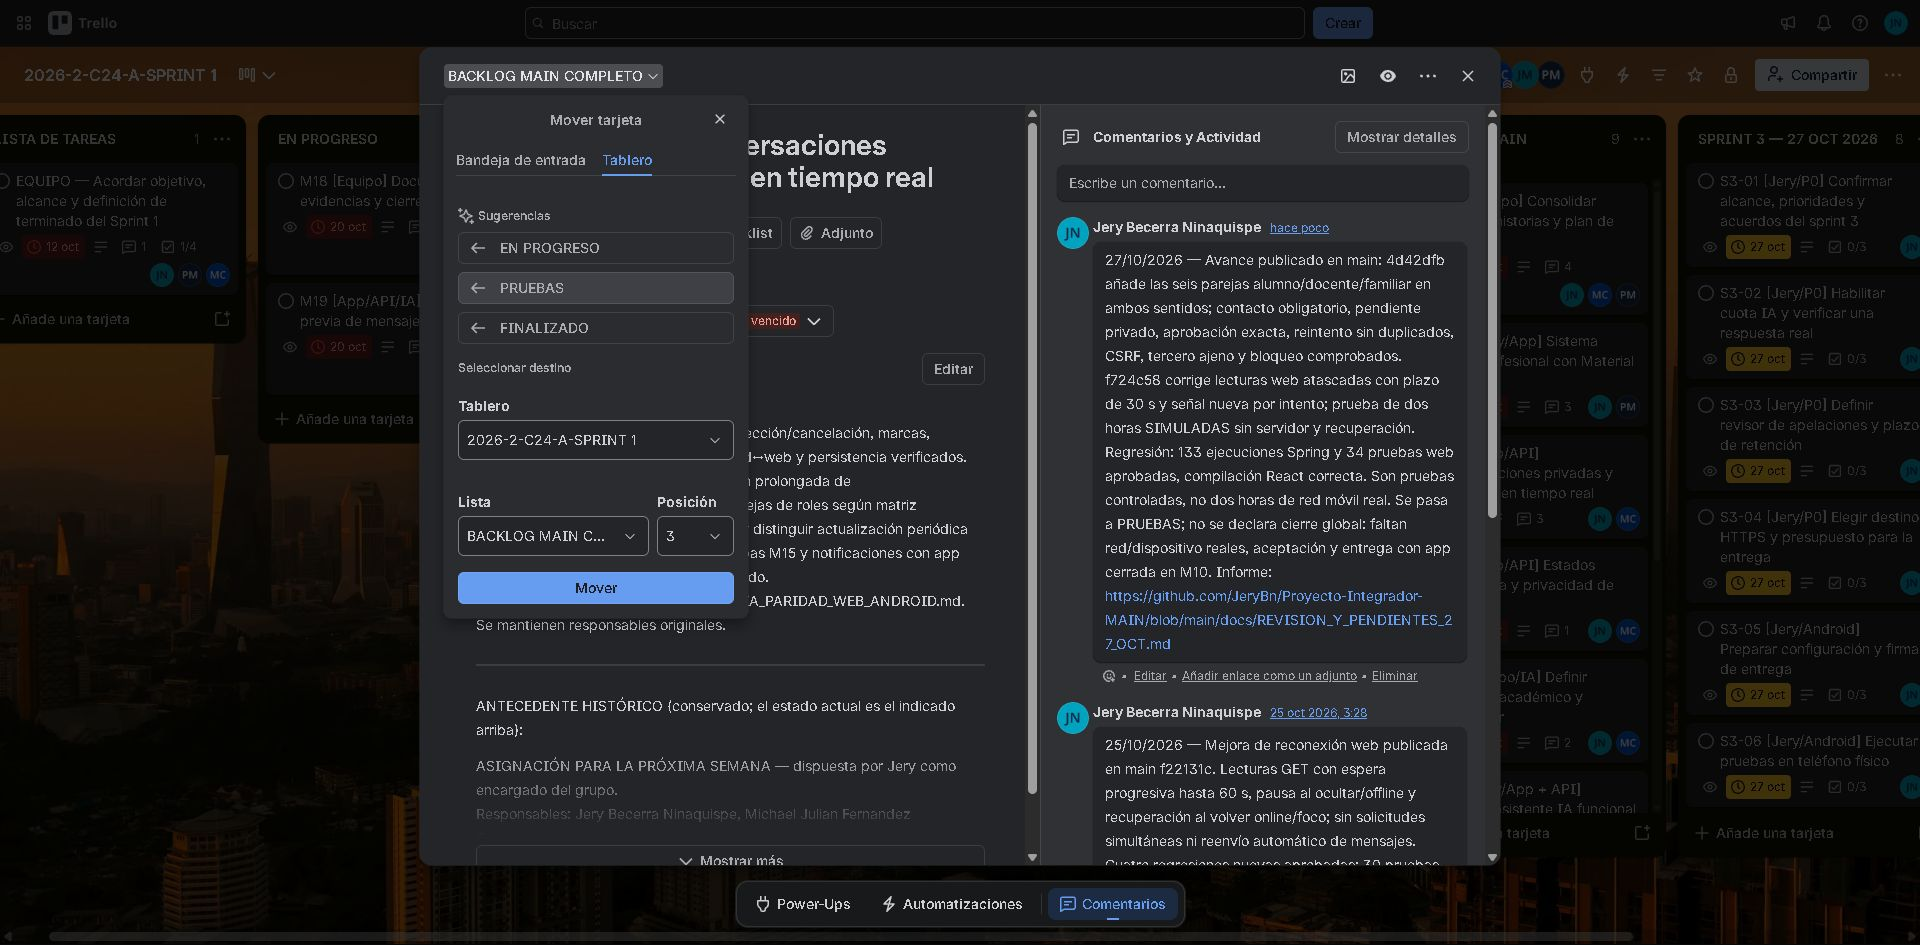
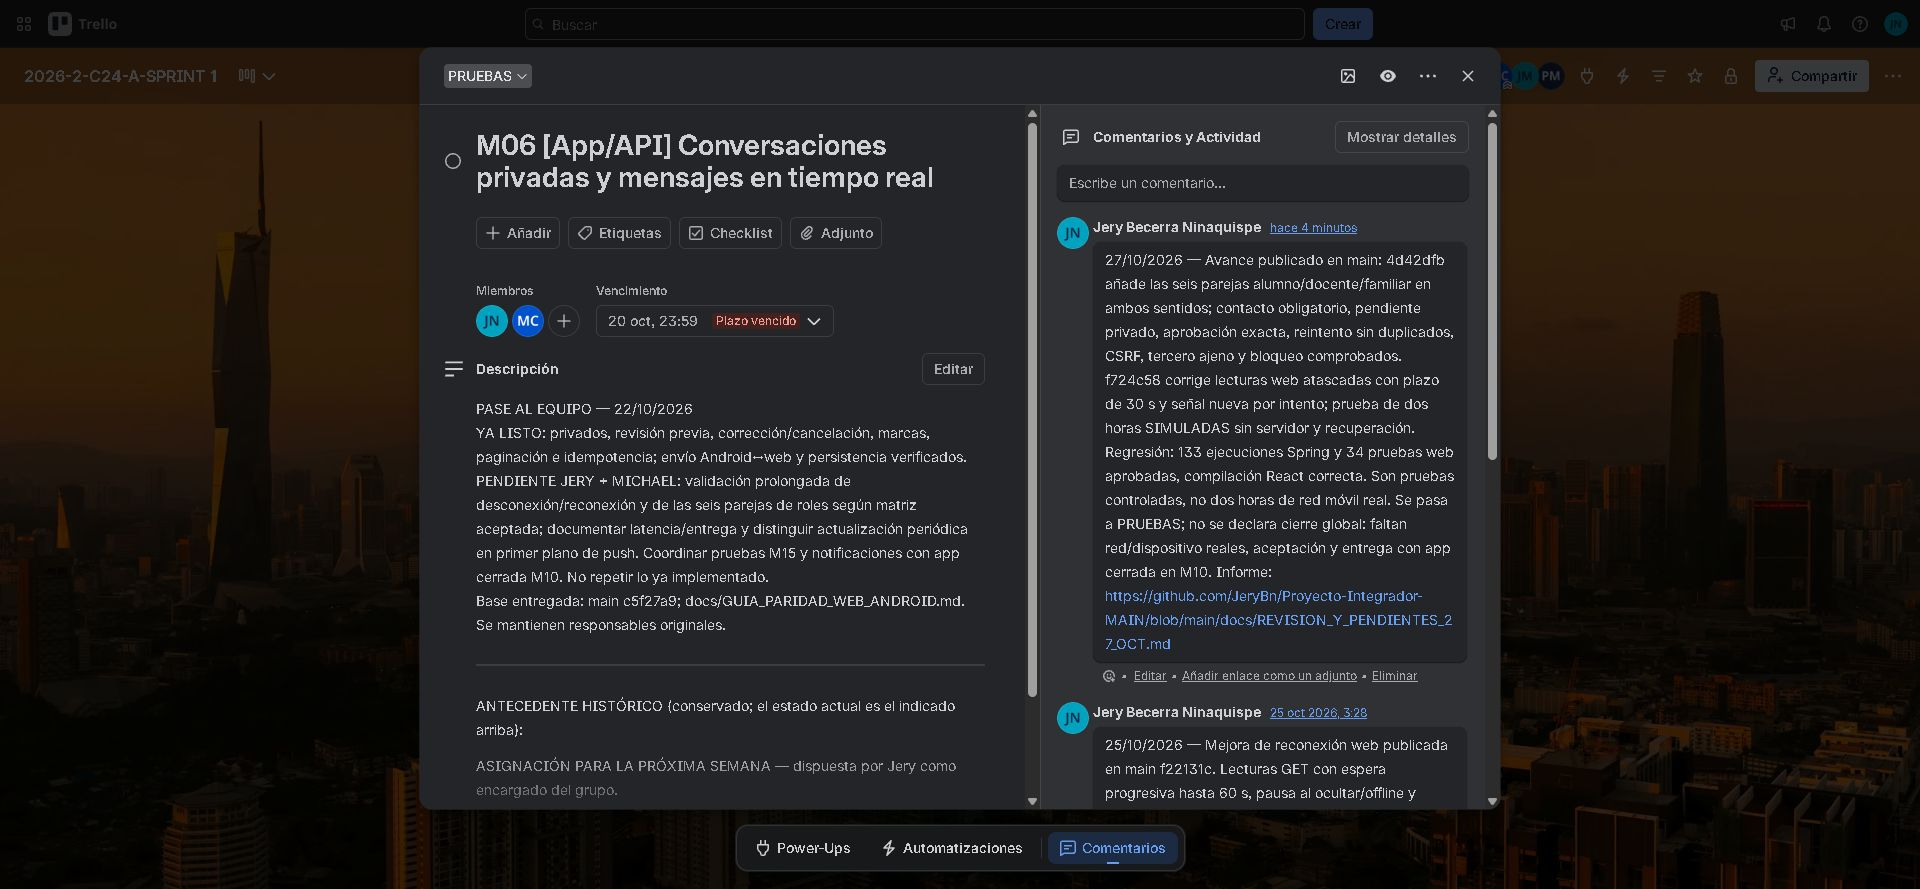
docs(trello): verificar cierre de seguimiento y pendientes del informe

diff --git a/docs/informes/2026-10-27-revision/LEEME.md b/docs/informes/2026-10-27-revision/LEEME.md
@@ -1,0 +1,12 @@
+# Evidencia del 27 de octubre
+
+- results.json resume la ronda nueva; los seis casos aislados de roles ya están incluidos en las 133 ejecuciones Spring. Son 124 casos distintos y nueve repeticiones adicionales del caso de retry.
+- trello-inicial.json contiene los títulos, enlaces y listas de las 32 tarjetas abiertas al inicio, sin comentarios privados ni credenciales. El inventario inicial no refleja el cierre posterior de S3-09.
+- trello-seguimiento.jpg muestra S3-09 en FINALIZADO, cumplida y con sus tres criterios comprobados. El cierre solo corresponde al seguimiento del corte.
+- trello-chat.jpg muestra M06 en PRUEBAS y su comentario con los dos commits, resultados y límites.
+- trello-informe.jpg muestra S3-08 con el primer criterio comprobado; el paquete release y la aceptación siguen abiertos.
+- Word/PDF de seis páginas: informe detallado, matriz de responsables, preparación y bloqueos. Se renderizaron e inspeccionaron todas las páginas antes de publicar.
+
+Actualizaciones de Trello comprobadas en esta ronda: S3-09, M06, M15, S3-01, S3-08 y M18. Conteo posterior: 20 FINALIZADO y 31 abiertas (23 vencidas y ocho con fecha 27/10). No representa un porcentaje de funcionalidad terminada. No se cambiaron miembros ni plazos históricos.
+
+Commits de código/pruebas: 4d42dfb y f724c58. Informe: 912af73. Guion de demostración y acta: 2f7b63c, en docs/GUION_DEMOSTRACION_27_OCT.md. La revisión no ejecutó pruebas nuevas de Android/Django/proveedor real ni acredita despliegue o aceptación académica.
